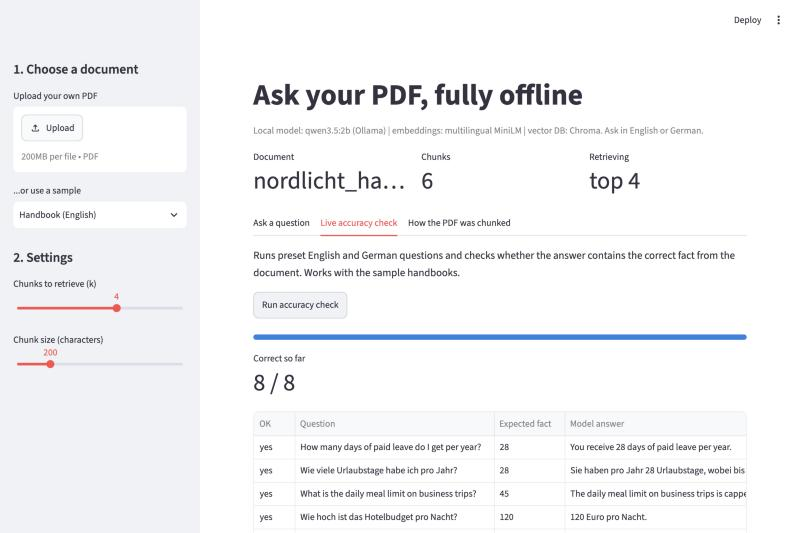
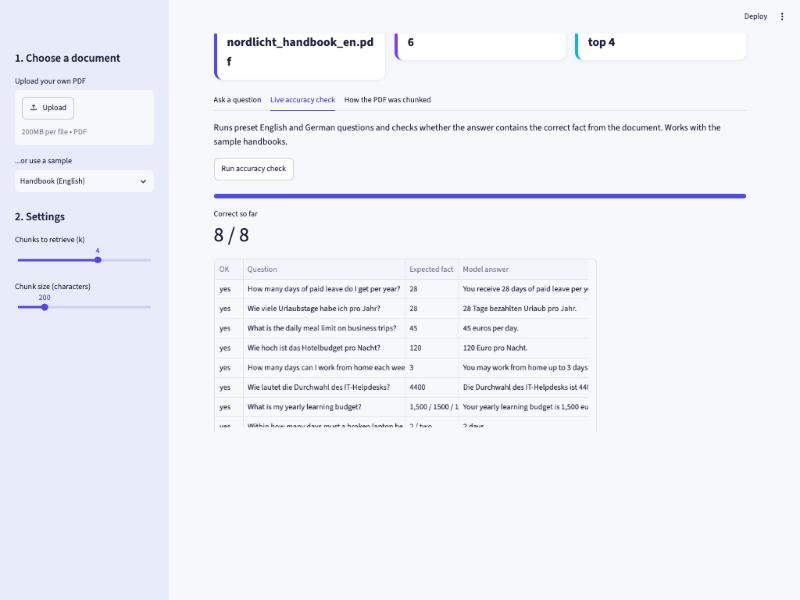
Update README screenshots to the new UI

diff --git a/README.md b/README.md
@@ -2,6 +2,8 @@
 
 Ask questions about a PDF in English or German, fully offline. A small open-source language model runs on your own machine through Ollama, so no internet connection and no API key are needed after the one-time setup.
 
+![App home](docs/ui_home.jpg)
+
 ![Live accuracy check](docs/accuracy_check.jpg)
 
 ## How it works
